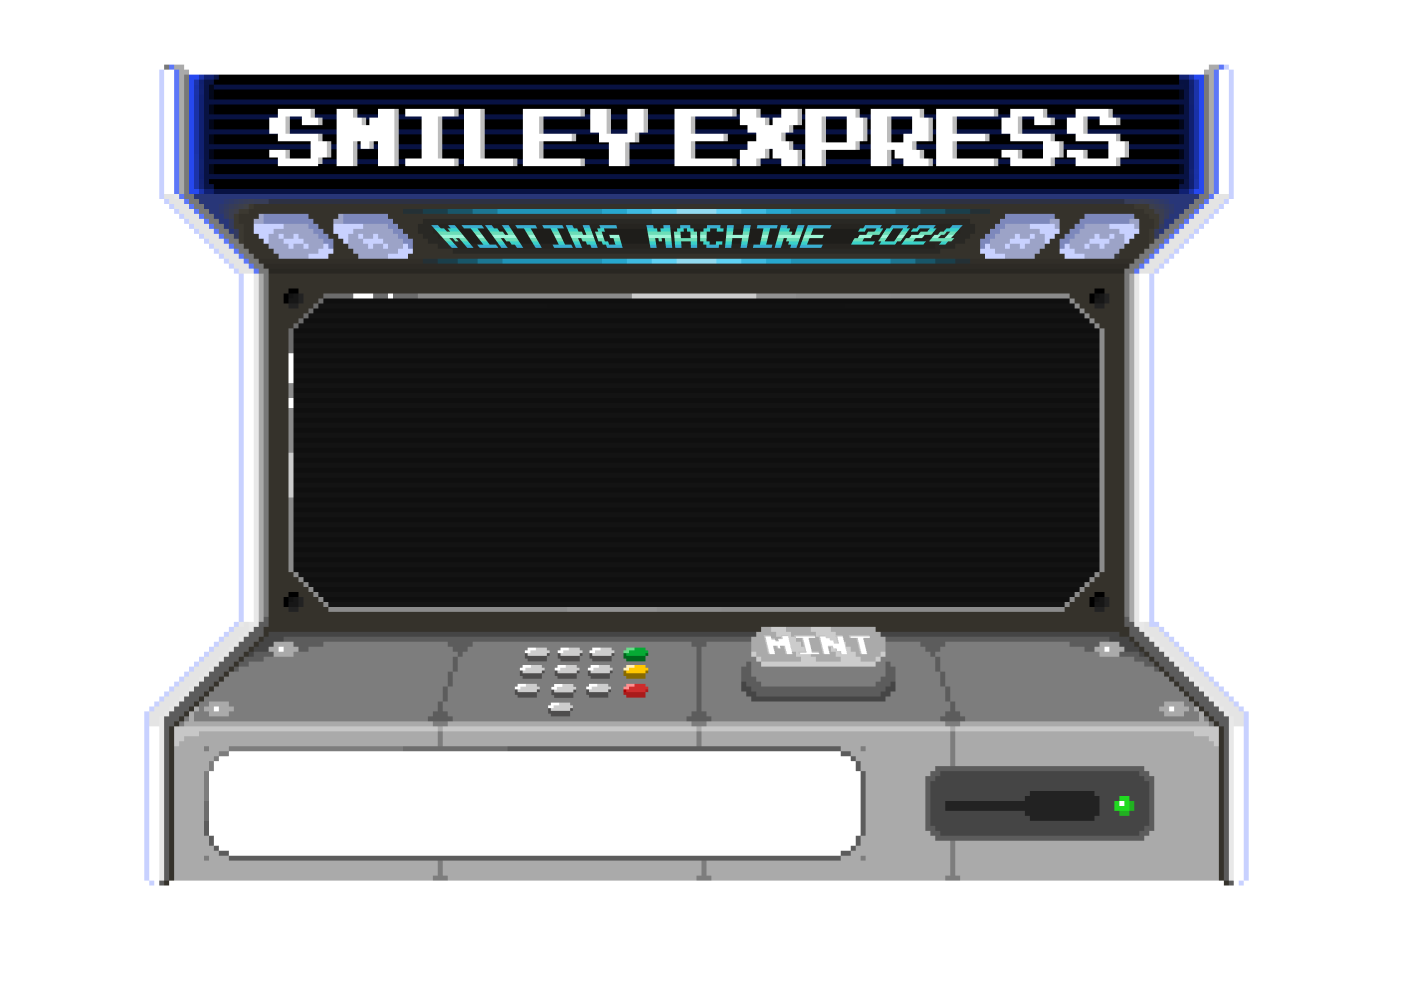
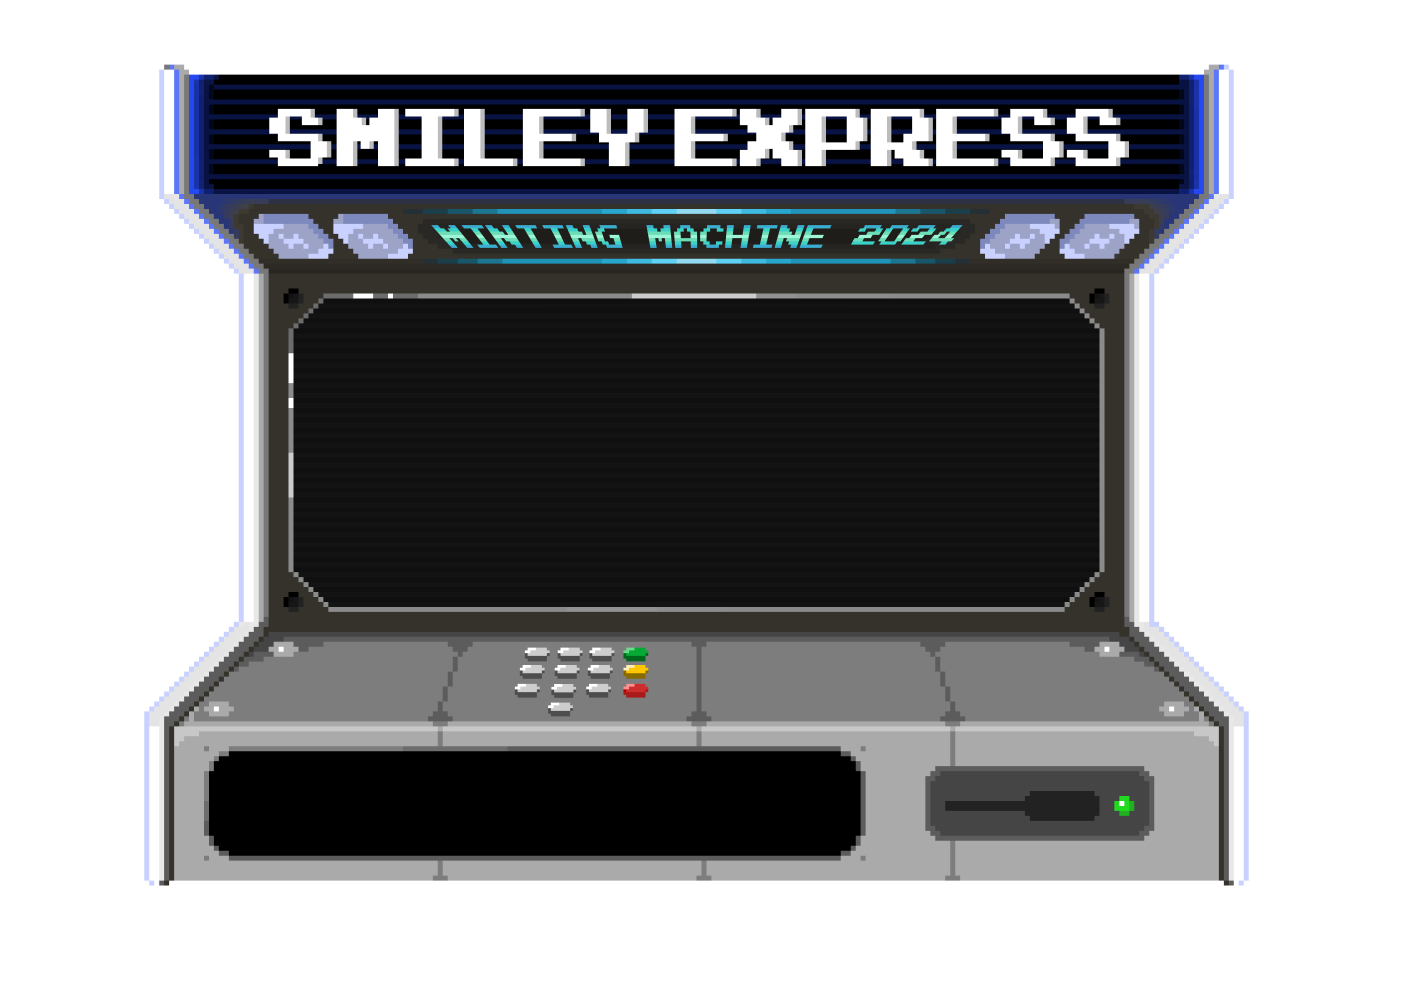
fix loading page style issues

Changed region(s): [[0.1237, 0.7477, 0.6184, 0.8724], [0.5257, 0.6231, 0.6493, 0.7166]]

diff --git a/src/pages/Main/LoadingPage.tsx b/src/pages/Main/LoadingPage.tsx
@@ -9,6 +9,7 @@ import Typewriter from '@/components/Typewriter'
 import { useWindowSize } from '@/hooks/useWindowSize'
 import { Image } from '@/components/Image'
 import { cn } from '@/utils/cn'
+import { useEffect, useRef, useState } from 'react'
 
 export const LoadingPage: React.FC<{
   onEnter: () => void
@@ -16,7 +17,16 @@ export const LoadingPage: React.FC<{
   isPlayingMusic: boolean
   playMusic: () => void
   pauseMusic: () => void
-}> = ({ playMusic, pauseMusic, isLoading, isPlayingMusic, onEnter }) => {
+}> = ({
+  playMusic,
+  pauseMusic,
+  isLoading: isLoadingResources,
+  isPlayingMusic,
+  onEnter
+}) => {
+  const [isLoadingProgress, setIsLoadingProgress] = useState(true)
+  const isLoading = isLoadingProgress || isLoadingResources
+
   return (
     <div className="relative flex h-screen w-screen items-center justify-center bg-black bg-loading bg-cover bg-center bg-no-repeat">
       <SmileyLogo />
@@ -37,28 +47,32 @@ export const LoadingPage: React.FC<{
               .map((_, idx) => getFrameUrl('smiley-rotating', `${idx + 1}`))}
           />
         </div>
-        <div className="relative mb-3 flex items-center text-lg">
-          LOADING
-          <div className="absolute bottom-0 left-full">
-            <Typewriter
-              loop
-              speed={300}
-              seq={false}
-              cursor={false}
-              nodes="..."
-            />
-          </div>
-        </div>
-        <div className="mb-12">
-          <Image src={getIllustrationUrl('loading-line', 'svg')} />
-        </div>
 
-        {!isLoading && (
+        {isLoading ? (
+          <>
+            <div className="relative mb-3 flex items-center text-lg">
+              LOADING
+              <div className="absolute bottom-0 left-full">
+                <Typewriter
+                  loop
+                  speed={300}
+                  seq={false}
+                  cursor={false}
+                  nodes="..."
+                />
+              </div>
+            </div>
+            <div className="mb-12">
+              <ProgressLine onStop={() => setIsLoadingProgress(false)} />
+            </div>
+          </>
+        ) : (
           <div
             onClick={() => onEnter()}
             className={cn(
-              'cursor-pointer bg-white text-black px-5 py-2 font-bold shadow-connectwallet-button active:shadow-none whitespace-nowrap',
-              'active:shadow-none active:translate-x-1.5 active:translate-y-1.5'
+              'cursor-pointer bg-white text-black px-5 py-2 font-bold shadow-connectwallet-button whitespace-nowrap',
+              'hover:bg-blue3 hover:shadow-connectwallet-button-hover',
+              'active:shadow-none active:translate-x-1.5 active:translate-y-1.5 active:bg-blue'
             )}>
             Enter bitSmiley
           </div>
@@ -82,6 +96,47 @@ const SmileyLogo: React.FC = () => {
           scale: `${width >= 1920 ? 100 : (width * 100) / 1920}%`
         }}>
         <Image src={getIconUrl('header', 'svg')} className="max-h-14" />
+      </div>
+    </div>
+  )
+}
+
+const ProgressLine: React.FC<{ onStop: () => void }> = ({ onStop }) => {
+  const NUM = 27
+  const timerRef = useRef(0)
+  const [current, setCurrent] = useState(0)
+
+  useEffect(() => {
+    if (current >= NUM) {
+      clearTimeout(timerRef.current)
+      onStop()
+      return
+    }
+
+    timerRef.current = setTimeout(() => {
+      setCurrent((v) => v + 1)
+    }, 120)
+
+    return () => {
+      clearTimeout(timerRef.current)
+    }
+  }, [current, onStop])
+
+  return (
+    <div className="relative">
+      <Image src={getIllustrationUrl('loading-line', 'svg')} />
+      <div className="absolute left-[7px] top-[7px] flex items-center gap-x-[3px]">
+        {Array(NUM)
+          .fill(1)
+          .map((_, idx) => (
+            <div
+              key={idx}
+              className={cn(
+                'h-1.5 w-1.5 bg-white invisible',
+                idx <= current && 'visible'
+              )}
+            />
+          ))}
       </div>
     </div>
   )

diff --git a/src/pages/Main/index.tsx b/src/pages/Main/index.tsx
@@ -1,6 +1,5 @@
-// import mintMusicSrc from '@/assets/mint.mp3'
 import { MintPage } from './MintPage'
-import { useEffect, useRef, useState } from 'react'
+import { useCallback, useEffect, useMemo, useState } from 'react'
 import { LoadingPage } from '@/pages/Main/LoadingPage'
 import { useFetchArticles } from '@/hooks/useFetchArticles'
 import { useIsWalletUnlocked } from '@/hooks/useIsWalletUnlocked'
@@ -17,18 +16,25 @@ const Main: React.FC = () => {
 
   const isLoading = isLoadingArticles || isCheckingWallet || isLoadingImages
 
-  const audioRef = useRef<HTMLAudioElement>(null)
+  const audio = useMemo(() => {
+    const newAudio = new Audio(
+      new URL('/src/assets/mint.mp3', import.meta.url).href
+    )
+    newAudio.volume = 0.7
+    newAudio.loop = true
+    return newAudio
+  }, [])
 
-  const playMusic = () => {
-    if (audioRef.current?.currentTime !== undefined) {
-      audioRef.current.currentTime = 0
+  const playMusic = useCallback(() => {
+    if (audio?.currentTime !== undefined) {
+      audio.currentTime = 0
     }
-    audioRef.current?.play()
+    audio?.play()
     setIsPlaying(true)
-  }
+  }, [audio])
 
   const pauseMusic = () => {
-    audioRef.current?.pause()
+    audio?.pause()
     setIsPlaying(false)
   }
 
@@ -36,16 +42,10 @@ const Main: React.FC = () => {
     if (!isLoading && isEntered) {
       playMusic()
     }
-  }, [isLoading, isEntered])
+  }, [isLoading, isEntered, playMusic])
 
   return (
     <div>
-      <audio
-        src={new URL('/src/assets/mint.mp3', import.meta.url).href}
-        ref={audioRef}
-        loop
-      />
-
       {isLoading || !isEntered ? (
         <LoadingPage
           onEnter={() => setIsEntered(true)}

diff --git a/src/components/Typewriter.tsx b/src/components/Typewriter.tsx
@@ -1,6 +1,6 @@
 import { useStoreActions } from '@/hooks/useStoreActions'
 import { getCurrentTypeWritterSeq } from '@/store/common/reducer'
-import { useState, useEffect, ReactNode, useMemo } from 'react'
+import { useState, useEffect, ReactNode, useMemo, useRef } from 'react'
 import { useSelector } from 'react-redux'
 
 const DEFAULT_MS = 40
@@ -13,8 +13,6 @@ export interface ITypewriterProps {
   cursor?: boolean
 }
 
-let timer: number
-
 export default function Typewriter({
   seq,
   nodes,
@@ -23,6 +21,7 @@ export default function Typewriter({
   cursor = true
 }: ITypewriterProps) {
   const { setCurrentTypewritterSeq } = useStoreActions()
+  const timerRef = useRef(0)
   const currentSeq = useSelector(getCurrentTypeWritterSeq)
   const [currentNodeIndex, setCurrentNodeIndex] = useState(0)
 
@@ -47,7 +46,7 @@ export default function Typewriter({
   useEffect(() => {
     if (currentSeq !== seq && seq !== false) return
 
-    timer = setTimeout(() => {
+    timerRef.current = setTimeout(() => {
       if (currentNodeIndex < formattedNodes.length) {
         setCurrentNodeIndex(currentNodeIndex + 1)
       } else {
@@ -55,13 +54,13 @@ export default function Typewriter({
           setCurrentNodeIndex(0)
         } else {
           setCurrentTypewritterSeq(currentSeq + 1)
-          clearTimeout(timer)
+          clearTimeout(timerRef.current)
         }
       }
     }, speed)
 
     return () => {
-      clearTimeout(timer)
+      clearTimeout(timerRef.current)
     }
   }, [
     seq,

diff --git a/src/components/ConnectWallet.tsx b/src/components/ConnectWallet.tsx
@@ -24,8 +24,9 @@ export const ConnectWallet: React.FC<{
         onClick={() => setIsOpen(true)}
         style={style}
         className={cn(
-          'cursor-pointer bg-white text-black px-5 py-2 font-bold shadow-connectwallet-button active:shadow-none whitespace-nowrap',
-          'active:shadow-none active:translate-x-1.5 active:translate-y-1.5',
+          'cursor-pointer bg-white text-black px-5 py-2 font-bold shadow-connectwallet-button whitespace-nowrap',
+          'hover:bg-blue3 hover:shadow-connectwallet-button-hover',
+          'active:shadow-none active:translate-x-1.5 active:translate-y-1.5 active:bg-blue',
           className
         )}>
         {isConnected

diff --git a/tailwind.config.js b/tailwind.config.js
@@ -6,6 +6,7 @@ const colors = {
   blue: '#2648EF',
   blue1: '#516DF2',
   blue2: '#1C2A89',
+  blue3: '#93A4F7',
   green: '#29F863',
   black2: '#010101',
   grey2: '#8F8F8F',
@@ -36,6 +37,7 @@ export default {
       },
       boxShadow: {
         'connectwallet-button': '6px 6px 0px 0px #919191',
+        'connectwallet-button-hover': '6px 6px 0px 0px #2648EF',
         'whitepaper-button': '6px 6px 0px 0px #172B8F'
       },
       backgroundImage: {

diff --git a/src/pages/Main/MintMachine.tsx b/src/pages/Main/MintMachine.tsx
@@ -20,6 +20,11 @@ export const MintMachine: React.FC = () => {
           src={getIllustrationUrl('machine-static')}
         />
 
+        <Image
+          className="absolute left-[740px] top-[624px]"
+          src={getIllustrationUrl('mintbutton-disabled')}
+        />
+
         <div className="absolute bottom-[428px] left-[367px] z-10">
           <CanvasFrames
             fps={24}
